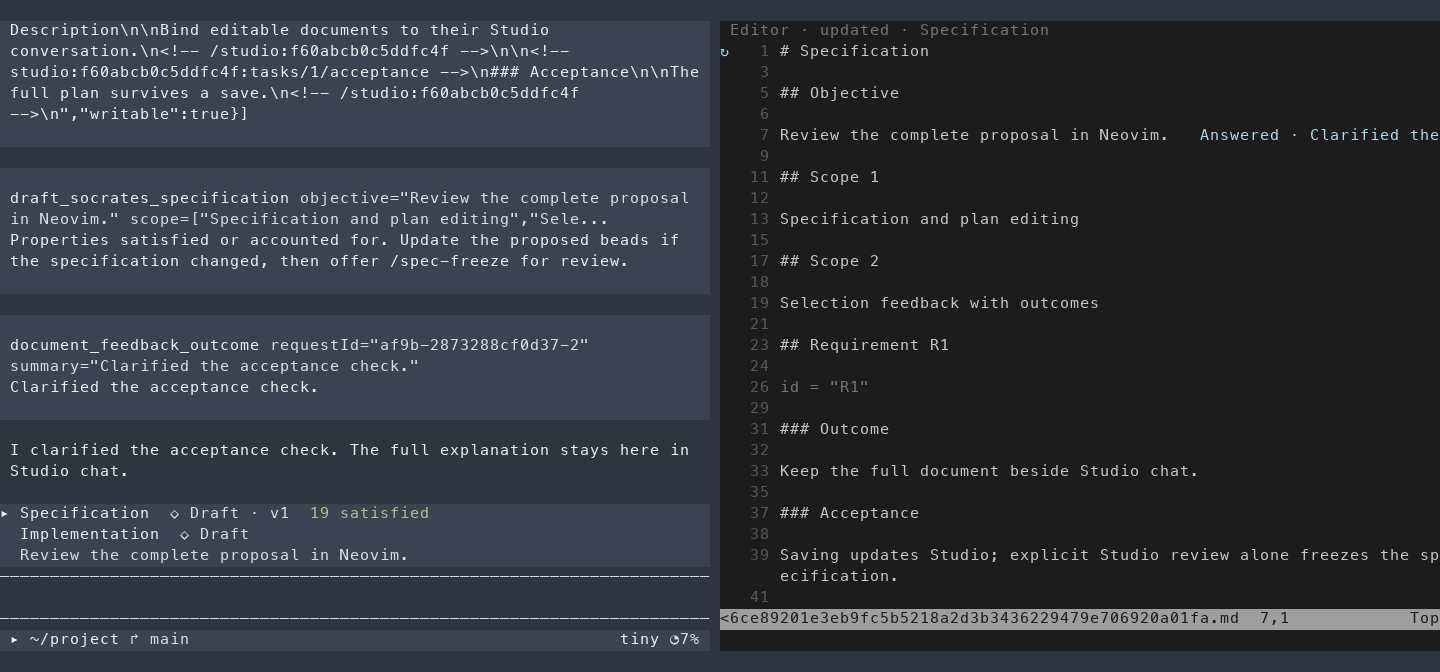
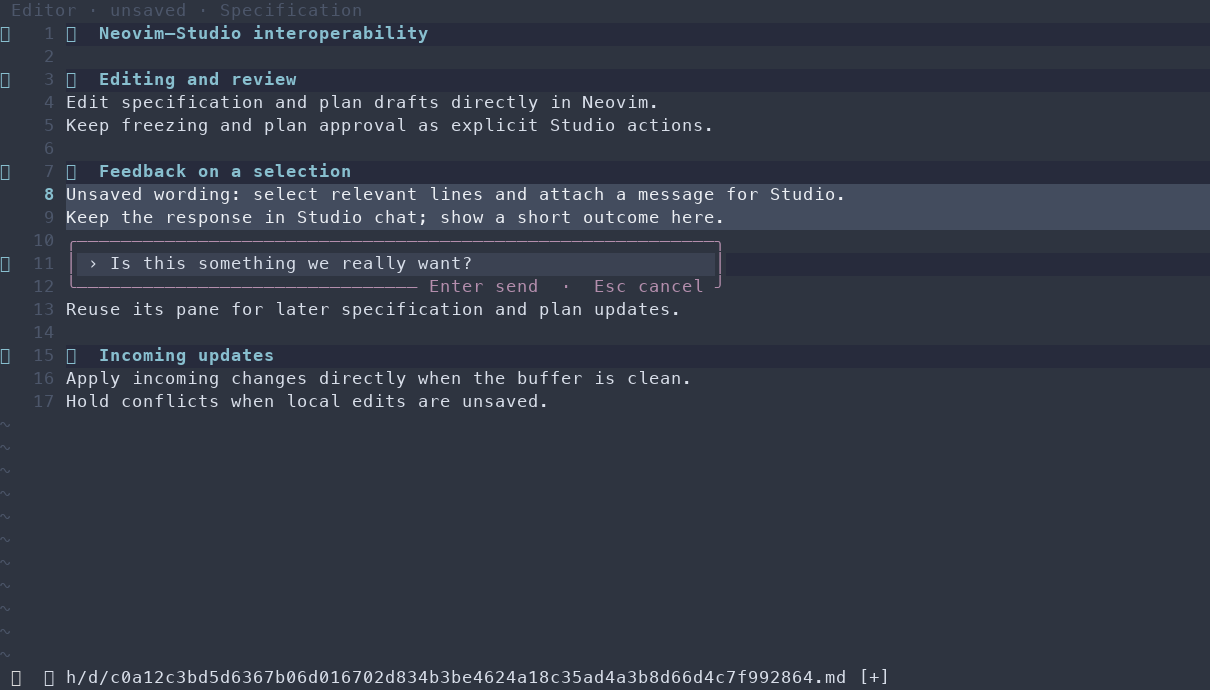
writing: show the inline Neovim selection comment workflow

diff --git a/content/writing/studio/index.md b/content/writing/studio/index.md
@@ -60,7 +60,7 @@ With the editor bridge, Studio keeps document authority while Neovim handles the
 
 That boundary is also useful beyond Studio. The editor integration doesn't need to know how the host schedules tasks, stores approvals, or runs its model.
 
-{{< ui-capture id="copydesk-neovim" file="copydesk-neovim.png" number="05 / Copydesk" title="A document remains a document" alt="Studio terminal conversation at left and Neovim specification buffer at right, with revised requirements and an answered comment reflected across both views." caption="Feedback returns to Studio while the full specification stays editable in Neovim. This is an actual integration acceptance capture, not a simulated mockup." >}}
+{{< ui-capture id="copydesk-neovim" file="copydesk-neovim.png" number="05 / Copydesk" title="Comment directly on a selection" alt="Neovim specification buffer with two selected lines and an adjacent comment prompt asking whether the selected wording is wanted, with Enter to send and Escape to cancel." caption="Selection feedback, including unsaved text, can be composed beside the relevant lines and sent back to Studio. Captured from the native editor integration." >}}
 
 ## Passing is not the final pass
 
